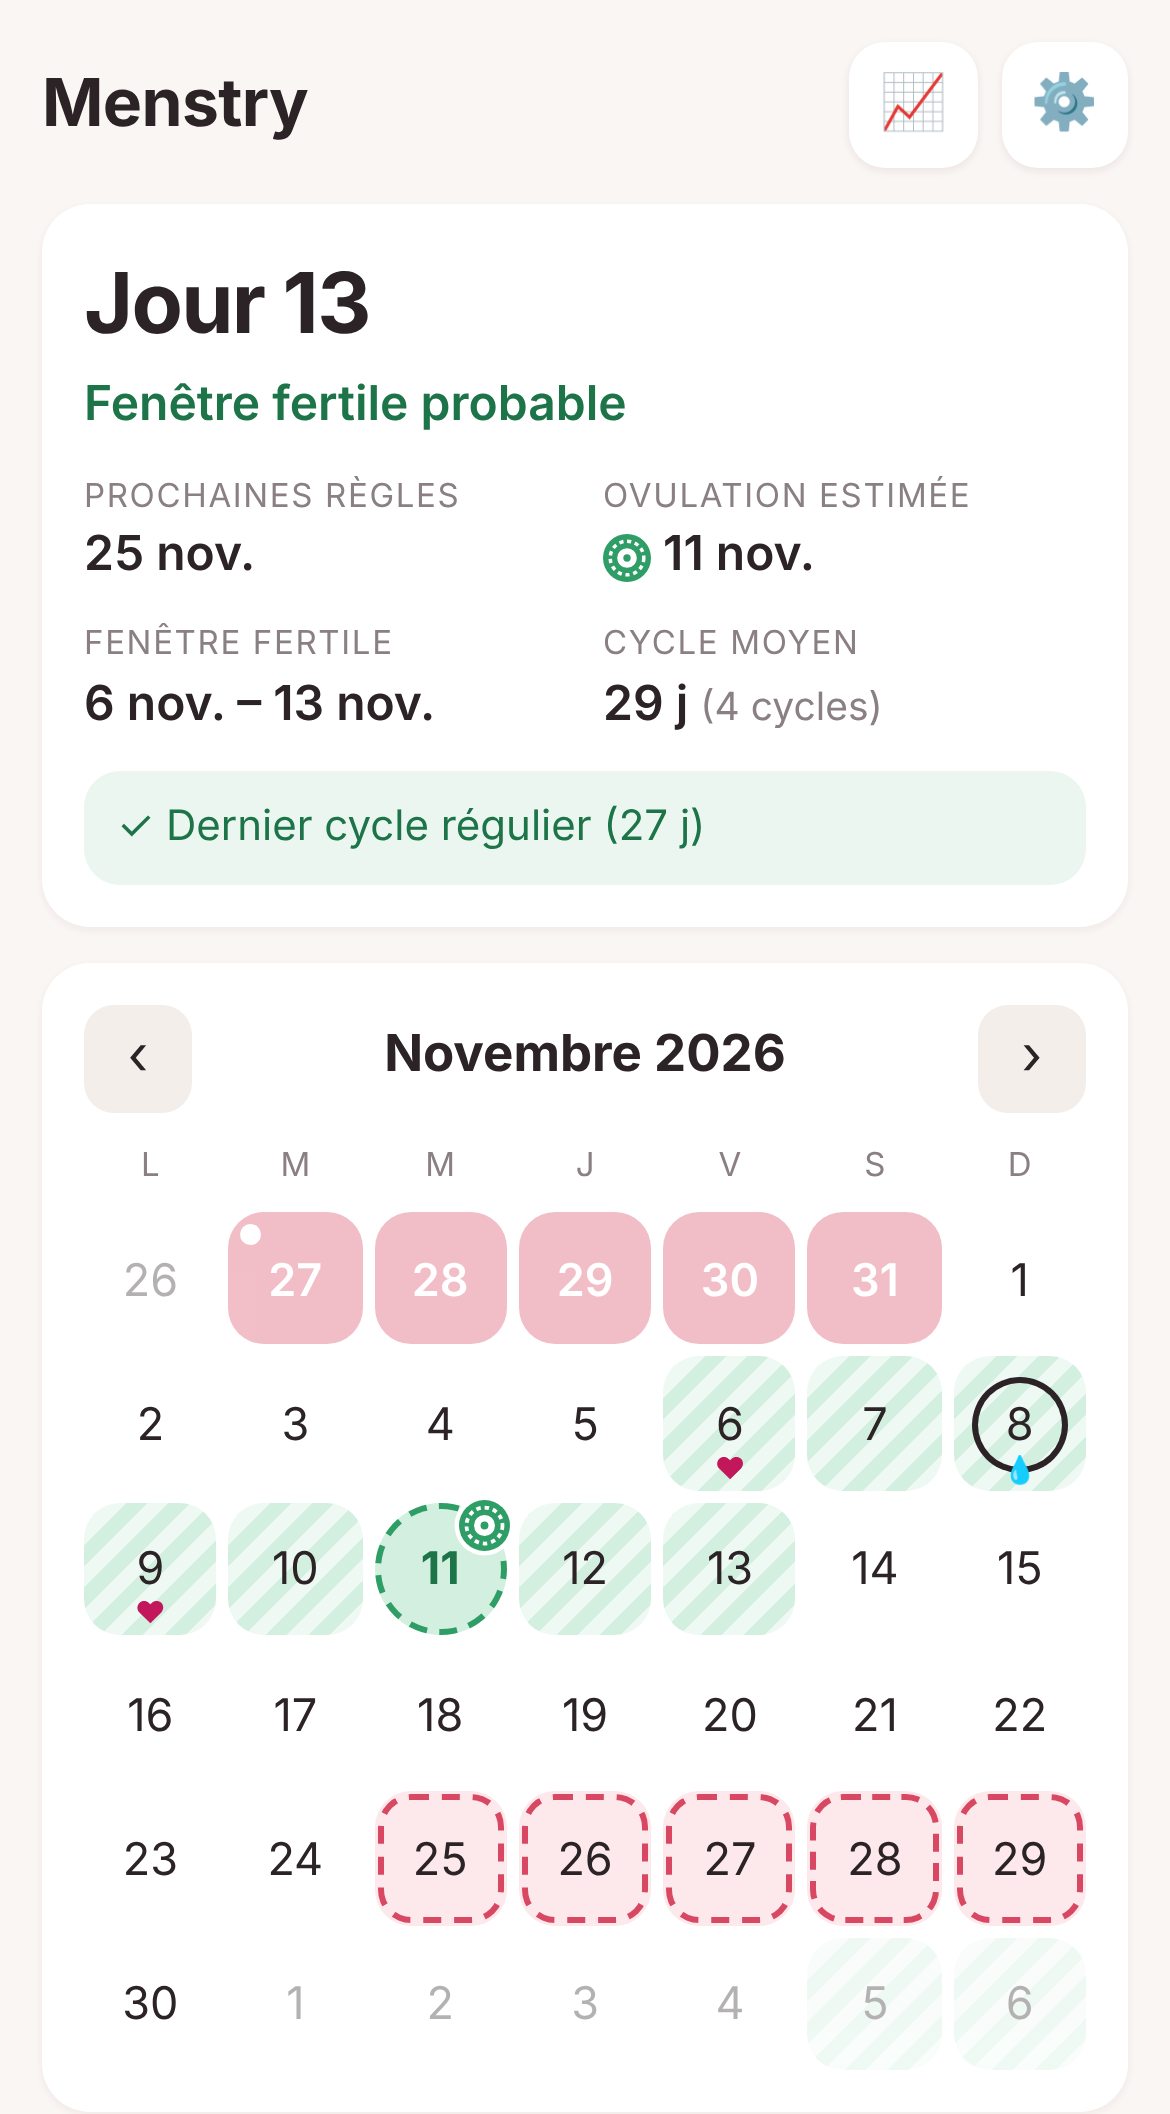
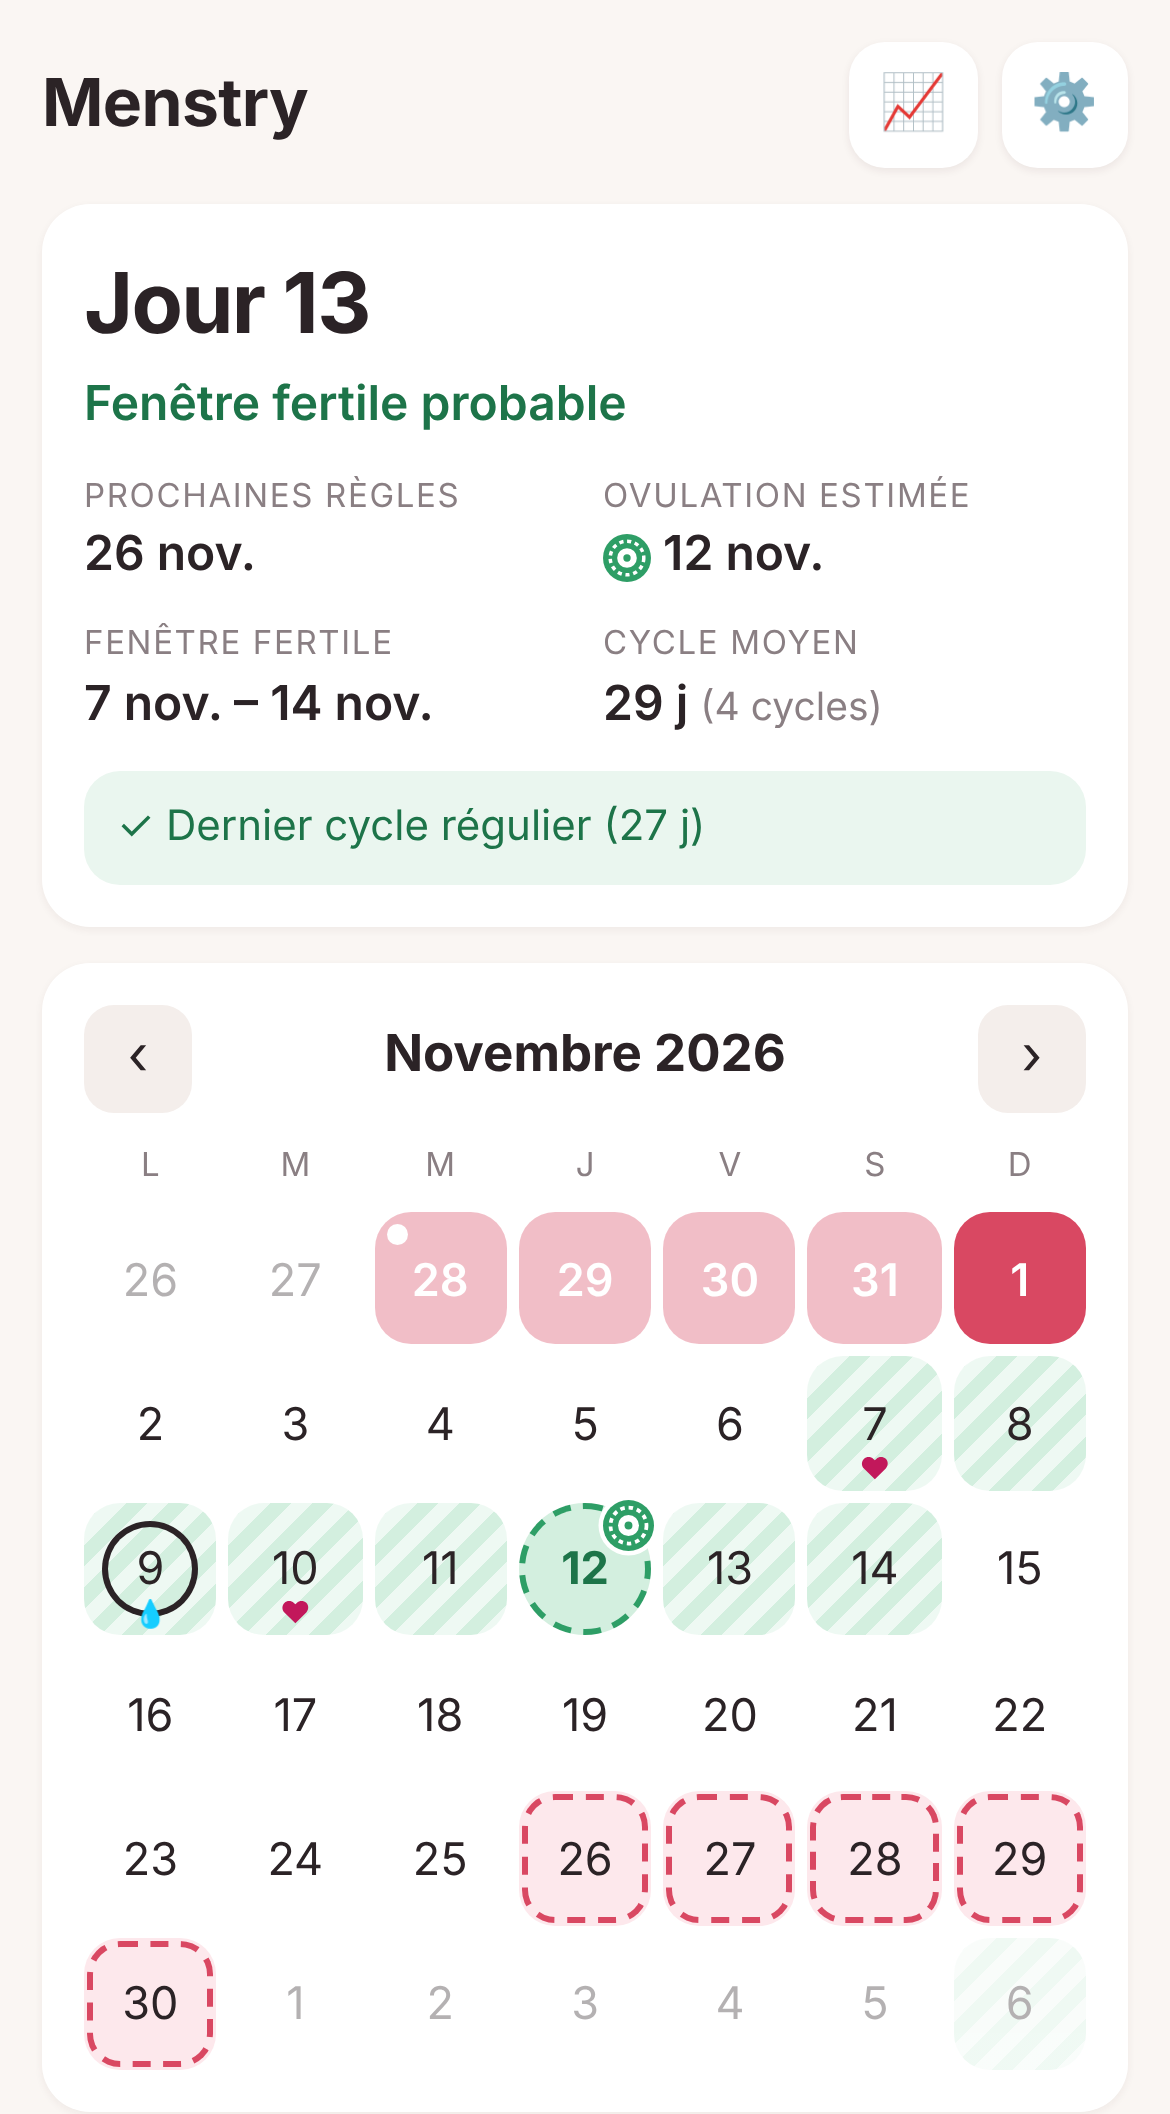
Glaire cervicale : Visible, Collante ou Fluide

diff --git a/index.html b/index.html
@@ -334,10 +334,10 @@ const todayNum = () => { const d = new Date(); return Math.round(Date.UTC(d.getF
 const fmt = (n, o={day:'numeric', month:'short'}) => new Date(n*DAY).toLocaleDateString('fr-FR', {...o, timeZone:'UTC'});
 const mean = a => a.reduce((x,y)=>x+y,0)/a.length;
 
-const MUCUS = [['collante','Collante'],['liquide','Liquide']];
-const MUCUS_HI = new Set(['liquide']);
-// Conversion des anciens types de glaire vers les 2 choix actuels ('' = sèche : aucune glaire notée)
-const MUCUS_OLD = { seche:'', cremeuse:'collante', aqueuse:'liquide', blanc:'liquide', glissante:'liquide' };
+const MUCUS = [['visible','Visible'],['collante','Collante'],['fluide','Fluide']];
+const MUCUS_HI = new Set(['fluide']);
+// Conversion des anciens types de glaire vers les choix actuels ('' = sèche : aucune glaire notée)
+const MUCUS_OLD = { seche:'', cremeuse:'collante', aqueuse:'fluide', blanc:'fluide', glissante:'fluide', liquide:'fluide' };
 function migrate(d){
   for (const [k, r] of Object.entries(d.days || {})){
     if (!r || !(r.mucus in MUCUS_OLD)) continue;

diff --git a/sw.js b/sw.js
@@ -1,5 +1,5 @@
 // Cache hors ligne : réseau d'abord, cache en secours. Les requêtes Google ne sont jamais mises en cache.
-const CACHE = 'menstry-v3';
+const CACHE = 'menstry-v4';
 const ASSETS = ['./', './index.html', './manifest.json', './icon-192.png', './icon-512.png'];
 self.addEventListener('install', e => { e.waitUntil(caches.open(CACHE).then(c => c.addAll(ASSETS))); self.skipWaiting(); });
 self.addEventListener('activate', e => {

diff --git a/README.md b/README.md
@@ -56,7 +56,7 @@ Toucher un jour du calendrier, ou le bouton **« + Noter aujourd'hui »**, puis 
 | 🌸 **Début de cycle** | Le 1er jour des règles. « Règles » est alors coché automatiquement. |
 | 🩸 **Règles** | Chaque jour de règles |
 | ♥ **Rapport** | Les jours de rapport, en précisant **Non protégé** (choix par défaut) ou **Protégé** |
-| 💧 **Glaire cervicale** | **Collante** ou **Liquide** |
+| 💧 **Glaire cervicale** | **Visible**, **Collante** ou **Fluide** |
 
 Chaque saisie est enregistrée immédiatement. Aucun mot de passe n'est demandé pour noter.
 
